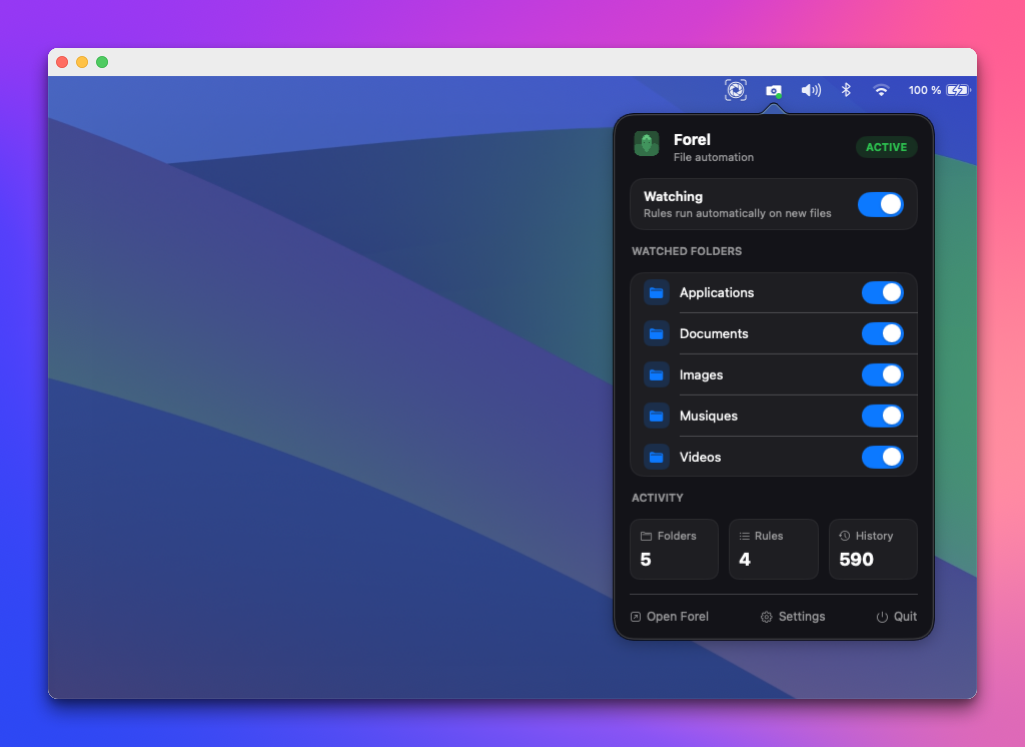
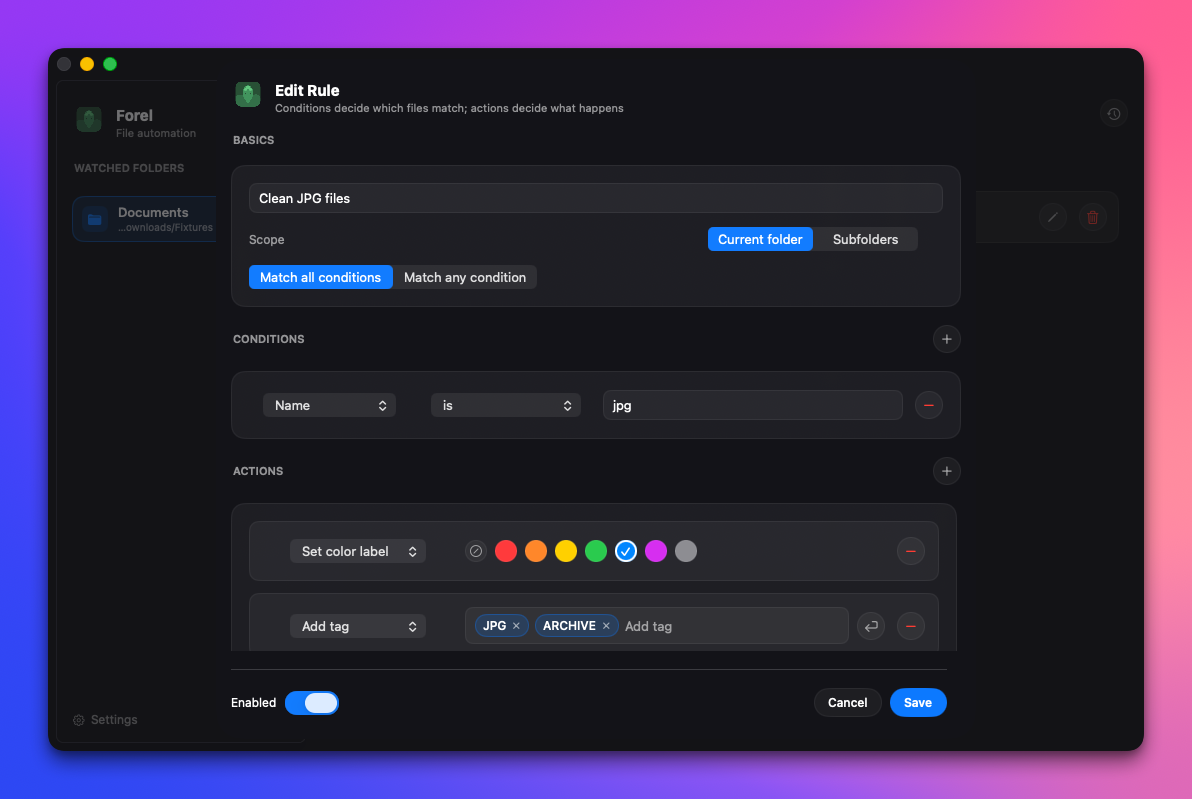
Update website & Fix changelog

diff --git a/docs/index.html b/docs/index.html
@@ -48,11 +48,36 @@
             </div>
             <p class="hero-note">macOS 14+ · 100% on-device · MIT licensed</p>
           </div>
-          <div class="hero-shot">
-            <img
-              src="assets/app-screen-1.png"
-              alt="Forel main window showing watched folders and rules"
-            />
+          <div class="hero-shot hero-carousel" aria-label="Forel app screenshots">
+            <div class="hero-carousel-track">
+              <figure class="hero-carousel-slide hero-carousel-slide-1 is-active">
+                <img
+                  src="assets/app-screen-1.png"
+                  alt="Forel main window showing watched folders and rules"
+                  loading="eager"
+                  fetchpriority="high"
+                />
+              </figure>
+              <figure class="hero-carousel-slide hero-carousel-slide-2">
+                <img
+                  src="assets/app-screen-2.png"
+                  alt="Forel rule editor showing conditions and actions"
+                  loading="eager"
+                />
+              </figure>
+              <figure class="hero-carousel-slide hero-carousel-slide-3">
+                <img
+                  src="assets/app-screen-3.png"
+                  alt="Forel rules list view with multiple active rules"
+                  loading="eager"
+                />
+              </figure>
+            </div>
+            <div class="hero-carousel-indicators" aria-hidden="true">
+              <span></span>
+              <span></span>
+              <span></span>
+            </div>
           </div>
         </div>
       </section>
@@ -143,6 +168,26 @@
         </div>
       </section>
 
+      <section class="section menubar-section">
+        <div class="section-inner">
+          <div class="section-heading">
+            <p class="eyebrow">Menu bar first</p>
+            <h2>Modern, glanceable, and always there.</h2>
+            <p>
+              Forel keeps the menu bar front and center with a translucent popover that shows
+              what is active right away. You can see the current state in one glance, without
+              opening the main window.
+            </p>
+          </div>
+          <div class="screenshot-band">
+            <img
+              src="assets/app-screen-3.png"
+              alt="Forel menu bar popover preview showing live status and watched folders"
+            />
+          </div>
+        </div>
+      </section>
+
       <section class="section privacy-section" id="privacy">
         <div class="section-inner feature-grid">
           <article class="feature">
@@ -191,5 +236,32 @@
         <a href="https://github.com/lguichard/forel">GitHub</a>
       </div>
     </footer>
+
+    <script>
+      (() => {
+        const slides = Array.from(document.querySelectorAll('.hero-carousel-slide'));
+        const dots = Array.from(document.querySelectorAll('.hero-carousel-indicators span'));
+        if (slides.length < 2) return;
+
+        let index = 0;
+        const intervalMs = 5000;
+        const transitionMs = 700;
+
+        const setActive = (nextIndex) => {
+          slides[index].classList.remove('is-active');
+          dots[index]?.classList.remove('is-active');
+          index = nextIndex;
+          slides[index].classList.add('is-active');
+          dots[index]?.classList.add('is-active');
+        };
+
+        dots[index]?.classList.add('is-active');
+        window.setInterval(() => setActive((index + 1) % slides.length), intervalMs);
+
+        slides.forEach((slide) => {
+          slide.style.transitionDuration = `${transitionMs}ms`;
+        });
+      })();
+    </script>
   </body>
 </html>

diff --git a/docs/styles.css b/docs/styles.css
@@ -221,6 +221,8 @@ h3 {
 }
 
 .hero-shot {
+  position: relative;
+  aspect-ratio: 1.47 / 1;
   overflow: hidden;
   border: 1px solid var(--line);
   border-radius: 12px;
@@ -228,9 +230,63 @@ h3 {
   box-shadow: var(--shadow);
 }
 
-.hero-shot img {
+.hero-carousel-track {
+  position: absolute;
+  inset: 0;
+}
+
+.hero-carousel-slide {
+  position: absolute;
+  inset: 0;
+  margin: 0;
+  opacity: 0;
+  transition: opacity 700ms ease, transform 700ms ease;
+}
+
+.hero-carousel-slide img {
   width: 100%;
-  height: auto;
+  height: 100%;
+  object-fit: cover;
+  object-position: top center;
+}
+
+.hero-carousel-slide-1 {
+  opacity: 1;
+}
+
+.hero-carousel-slide.is-active {
+  opacity: 1;
+  transform: translateY(0) scale(1);
+}
+
+.hero-carousel-slide:not(.is-active) {
+  transform: translateY(8px) scale(0.99);
+}
+
+.hero-carousel-indicators {
+  position: absolute;
+  left: 50%;
+  bottom: 14px;
+  z-index: 2;
+  display: inline-flex;
+  gap: 6px;
+  padding: 7px 9px;
+  border-radius: 999px;
+  background: rgba(16, 18, 22, 0.42);
+  transform: translateX(-50%);
+  backdrop-filter: blur(12px);
+}
+
+.hero-carousel-indicators span {
+  width: 18px;
+  height: 4px;
+  border-radius: 999px;
+  background: rgba(255, 255, 255, 0.28);
+  transition: background-color 220ms ease;
+}
+
+.hero-carousel-indicators span.is-active {
+  background: rgba(255, 255, 255, 0.92);
 }
 
 .intro-strip {
@@ -550,6 +606,10 @@ h3 {
     border-radius: 14px;
   }
 
+  .hero-shot {
+    aspect-ratio: 1.2 / 1;
+  }
+
   .hero-actions,
   .open-source-actions {
     align-items: stretch;
@@ -570,5 +630,16 @@ h3 {
     align-items: flex-start;
     flex-direction: column;
     justify-content: center;
+  }
+}
+
+@media (prefers-reduced-motion: reduce) {
+  .hero-carousel-slide {
+    transition: none;
+  }
+
+  .hero-carousel-slide:not(.is-active) {
+    opacity: 0;
+    transform: translateY(8px) scale(0.99);
   }
 }

diff --git a/CHANGELOG.md b/CHANGELOG.md
@@ -3,7 +3,7 @@
 All notable changes to Forel are documented here. Format loosely follows
 [Keep a Changelog](https://keepachangelog.com/en/1.1.0/).
 
-## [0.0.1-beta.1] - 2026-06-17
+## [0.1.0-beta.1] - 2026-06-17
 
 The app has been rewritten from scratch in Swift, replacing the previous
 Tauri + React + Rust stack (archived under `tauri/`). This isn't a port for
@@ -30,9 +30,9 @@ macOS-native experience, aimed at being a credible alternative to Hazel.
 - Action history with undo/redo per entry and per batch.
 
 ### Changed
-- Versioning resets to `0.0.x` for this Swift-native line, to mark it as a
-  distinct lineage from the Tauri-era `0.1.0-alpha.x` releases below rather
-  than implying continuity with that codebase.
+- Continues the existing `0.1.0.x` line started by the Tauri-era alphas
+  below — this beta is the same product, rebuilt on a native stack, not a
+  fresh project.
 
 ### Removed
 - The Tauri/React frontend and Rust backend are no longer the active app;